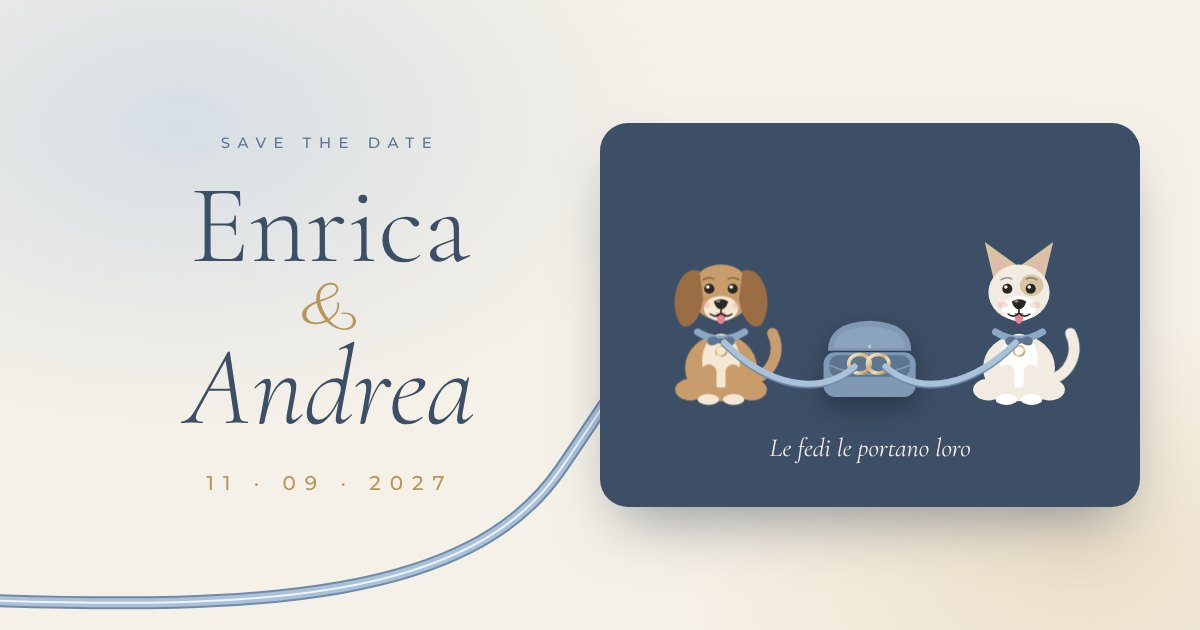
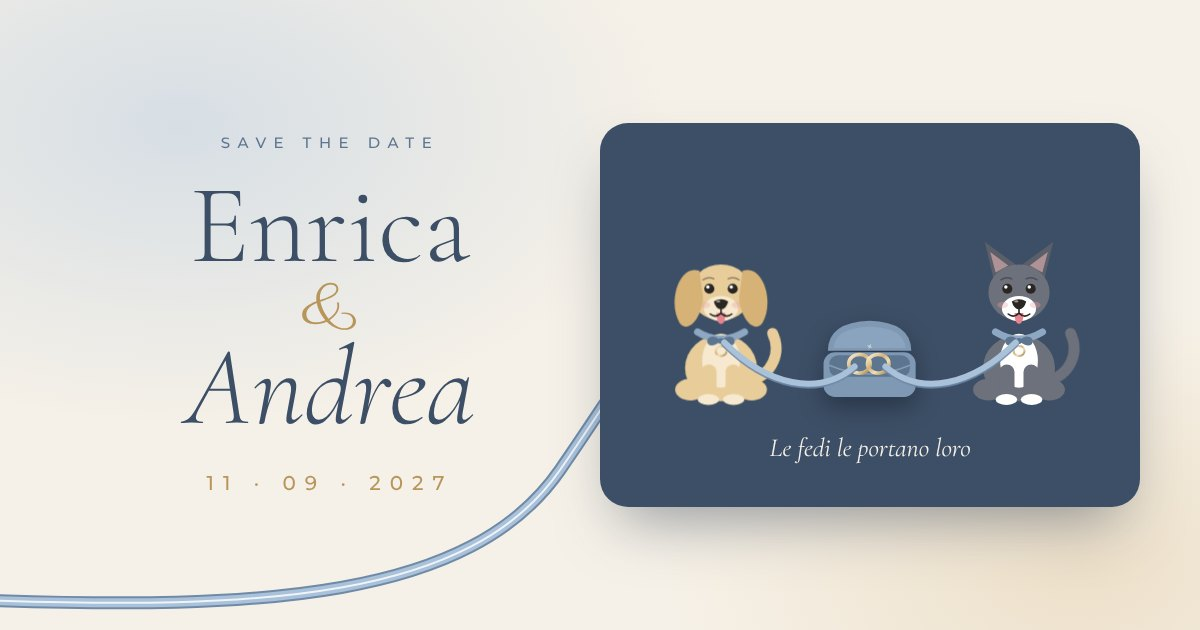
Foto vere, Giotto e Penelope
Foto della coppia ridimensionate e in ordine con le didascalie, ritratti
disegnati dei cani nelle schede (toccandoli compare la foto vera), colori
dei cani disegnati presi da Giotto (labrador) e Penelope (amstaff),
anteprima WhatsApp aggiornata. Tolti i segnaposto, i doppioni e la
schermata della palette dalla cartella delle foto.

Claude-Session: https://claude.ai/code/session_01RwR6BKojATNMNFkZ5XgZCV

Changed region(s): [[0.8017, 0.3921, 0.925, 0.6333], [0.555, 0.4222, 0.6783, 0.6333]]

diff --git a/assets/js/config.js b/assets/js/config.js
@@ -23,25 +23,30 @@ window.WEDDING = {
   },
 
   // I due cani portafedi.
-  // foto: se la lasciate vuota compare il disegno, colorato con i colori qui sotto.
-  // orecchie: 'giu' (a penzoloni) oppure 'su' (a punta)
+  // ritratto: disegno del cane (PNG con lo sfondo trasparente) per la scheda
+  // foto: foto vera, compare quando si tocca il cane nella scheda
+  // colori e orecchie ('giu' o 'su'): per il cane disegnato nel riporto, nel finale e nel messaggio segreto
   cani: [
     {
-      nome: 'Pepe', // ← nome del primo cane
-      foto: '',     // es. 'assets/img/cani/pepe.jpg'
+      nome: 'Giotto',
+      razza: 'Labrador',
+      ritratto: 'assets/img/cani/giotto-ritratto.png',
+      foto: 'assets/img/cani/giotto-foto.jpg',
       porta: 'la fede di Enrica',
-      segni: 'Orecchie da ascoltatore professionista',
-      talento: 'Riporta tutto. Anche quello che non doveva.',
-      colori: { pelo: '#c99c6b', muso: '#f4e7d3', orecchie: '#9a6d44', macchia: '' },
+      segni: 'Coda che non si ferma mai',
+      talento: 'Trovare qualcosa da mangiare ovunque, anche dove non c’è',
+      colori: { pelo: '#e8cd9a', muso: '#f6e9cf', orecchie: '#d6b276', macchia: '' },
       orecchie: 'giu',
     },
     {
-      nome: 'Luna', // ← nome del secondo cane
-      foto: '',     // es. 'assets/img/cani/luna.jpg'
+      nome: 'Penelope',
+      razza: 'Amstaff',
+      ritratto: 'assets/img/cani/penelope-ritratto.png',
+      foto: 'assets/img/cani/penelope-foto.jpg',
       porta: 'la fede di Andrea',
-      segni: 'Sguardo che ottiene qualsiasi cosa',
-      talento: 'Dormire sul divano nel posto più comodo',
-      colori: { pelo: '#f1ebe1', muso: '#ffffff', orecchie: '#d8c3a2', macchia: '#d8c3a2' },
+      segni: 'Bianca e grigia, con un cuore enorme',
+      talento: 'Chiedere coccole. E ottenerle, sempre',
+      colori: { pelo: '#6d717c', muso: '#ffffff', orecchie: '#5b5f6a', macchia: '' },
       orecchie: 'su',
     },
   ],
@@ -64,11 +69,18 @@ window.WEDDING = {
 
   // Foto appese al nastro (consigliato: 6–8 foto verticali, ~1000px di lato lungo)
   foto: [
-    { src: 'assets/img/photos/01.jpg', didascalia: 'Dove tutto è cominciato' },
-    { src: 'assets/img/photos/02.jpg', didascalia: 'Il primo viaggio' },
-    { src: 'assets/img/photos/03.jpg', didascalia: 'E poi arrivò Pepe' },
-    { src: 'assets/img/photos/04.jpg', didascalia: 'E poi anche Luna' },
-    { src: 'assets/img/photos/05.jpg', didascalia: 'Casa nostra' },
-    { src: 'assets/img/photos/06.jpg', didascalia: 'Il sì' },
+    { src: 'assets/img/photos/01-prima-foto-2012.jpg', didascalia: 'La nostra prima foto insieme, nel lontano 2012' },
+    { src: 'assets/img/photos/02-al-mare.jpg', didascalia: 'Baci salati' },
+    { src: 'assets/img/photos/03-al-lago.jpg', didascalia: 'Gite fuori porta' },
+    { src: 'assets/img/photos/04-stessa-fede.jpg', didascalia: 'La stessa fede (giallorossa)' },
+    { src: 'assets/img/photos/05-sottacqua.jpg', didascalia: 'Insieme, anche sott’acqua' },
+    { src: 'assets/img/photos/06-viaggio-piu-bello.jpg', didascalia: 'Il viaggio più bello fino ad ora' },
+    { src: 'assets/img/photos/07-vista-mare.jpg', didascalia: 'Sempre più in alto' },
+    { src: 'assets/img/photos/08-posto-del-cuore.jpg', didascalia: 'Il posto del cuore' },
+    { src: 'assets/img/photos/09-posto-del-cuore-tramonto.jpg', didascalia: 'Il posto del cuore, al tramonto' },
+    { src: 'assets/img/photos/10-tutti-e-quattro.jpg', didascalia: 'In viaggio, tutti e quattro' },
+    { src: 'assets/img/photos/11-in-tiro.jpg', didascalia: 'Già pronti per il grande giorno' },
+    { src: 'assets/img/photos/12-mani-e-zampe.jpg', didascalia: 'Mani e zampe' },
+    { src: 'assets/img/photos/13-la-proposta.jpg', didascalia: 'La proposta' },
   ],
 };

diff --git a/index.html b/index.html
@@ -177,10 +177,10 @@
       <header class="section-head">
         <p class="kicker">I portafedi</p>
         <h2>Testimoni a quattro zampe</h2>
-        <p class="section-sub">Il giorno del sì le fedi arriveranno con loro. Toccateli: rispondono.</p>
+        <p class="section-sub">Il giorno del sì le fedi arriveranno con loro. Toccateli: vi mostreranno come sono dal vero.</p>
       </header>
       <div class="pups__cards" id="pupCards" data-thread="0.5,-0.05; 0.5,0.5; 0.5,1.05"></div>
-      <p class="pups__hint">E occhio: <span data-bind="cane0">Pepe</span> e <span data-bind="cane1">Luna</span> hanno nascosto tre ossi nel sito. Trovateli!</p>
+      <p class="pups__hint">E occhio: <span data-bind="cane0">Giotto</span> e <span data-bind="cane1">Penelope</span> hanno nascosto tre ossi nel sito. Trovateli!</p>
     </section>
 
     <!-- ============ 3. APPESI A UN NASTRO ============ -->
@@ -376,7 +376,7 @@
       </div>
       <p class="finale__names"><span data-bind="lei">Enrica</span> <i>&amp;</i> <span data-bind="lui">Andrea</span></p>
       <p class="finale__date" data-bind="dataPunti">11 · 09 · 2027</p>
-      <p class="finale__small">Con <span data-bind="cane0">Pepe</span> e <span data-bind="cane1">Luna</span>, non vediamo l’ora di festeggiare con voi.</p>
+      <p class="finale__small">Con <span data-bind="cane0">Giotto</span> e <span data-bind="cane1">Penelope</span>, non vediamo l’ora di festeggiare con voi.</p>
       <button class="btn btn--ghost-light shake-btn js-shake" type="button"><span class="js-shake-label">Scuoti il telefono per lanciare i petali</span></button>
       <p class="finale__credit">Sito realizzato con amore da <a href="https://alessandropiedimonte.dev" target="_blank" rel="noopener">alessandropiedimonte.dev</a></p>
     </footer>

diff --git a/assets/js/main.js b/assets/js/main.js
@@ -347,7 +347,10 @@
     wrap.innerHTML = DOGS.map((c, i) => `
       <article class="pup pup--${i}" data-pup="${i}">
         <button class="pup__art" type="button" aria-label="Fai una carezza a ${esc(c.nome)}">
-          ${c.foto ? `<img class="pup__photo" src="${esc(c.foto)}" alt="${esc(c.nome)}" loading="lazy">` : dogSit(c)}
+          ${c.ritratto
+            ? `<img class="pup__portrait" src="${esc(c.ritratto)}" alt="${esc(c.nome)}" loading="lazy">`
+            : c.foto ? '' : dogSit(c)}
+          ${c.foto ? `<img class="pup__photo${c.ritratto ? ' pup__photo--peek' : ''}" src="${esc(c.foto)}" alt="${c.ritratto ? '' : esc(c.nome)}" loading="lazy">` : ''}
           <span class="pup__bubble" aria-hidden="true">Bau!</span>
         </button>
         <svg class="pup__rosette" viewBox="0 0 100 130" aria-hidden="true">
@@ -357,7 +360,7 @@
           <text x="50" y="58" text-anchor="middle" font-family="Cormorant Garamond, serif" font-size="26" font-style="italic" fill="${RIBBON_DEEP}">${i + 1}°</text>
         </svg>
         <div class="pup__body">
-          <p class="pup__role">Portafedi ufficiale</p>
+          <p class="pup__role">${c.razza ? `${esc(c.razza)} · ` : ''}Portafedi ufficiale</p>
           <h3 class="pup__name">${esc(c.nome)}</h3>
           <dl class="pup__facts">
             <div><dt>Porterà</dt><dd>${esc(c.porta || '')}</dd></div>
@@ -376,7 +379,7 @@
         const r = art.getBoundingClientRect();
         Petals.hearts(r.left + r.width / 2, r.top + r.height * .3, 7);
         clearTimeout(card._t);
-        card._t = setTimeout(() => card.classList.remove('is-happy'), 1600);
+        card._t = setTimeout(() => card.classList.remove('is-happy'), card.querySelector('.pup__photo--peek') ? 2600 : 1600);
       });
     });
   }

diff --git a/assets/css/style.css b/assets/css/style.css
@@ -574,6 +574,17 @@ body.is-open .eyebrow.reveal-hero { transition-delay: .9s; }
 .pup.is-happy .pup__art .dog { animation: hop .5s var(--ease-out); }
 @keyframes hop { 40% { transform: translateY(-14px); } }
 .pup__photo { position: absolute; inset: 0; width: 100%; height: 100%; object-fit: cover; border-radius: 50%; }
+/* il ritratto disegnato; toccandolo compare la foto vera */
+.pup__portrait {
+  position: absolute; left: 10%; top: 10%; width: 80%; height: 80%;
+  object-fit: contain;
+  filter: drop-shadow(0 8px 10px rgba(44,58,77,.2));
+  transition: transform .4s var(--ease-out), opacity .4s;
+}
+.pup__art:hover .pup__portrait { transform: translateY(-3px) rotate(-2deg); }
+.pup.is-happy .pup__portrait { animation: hop .5s var(--ease-out); }
+.pup__photo--peek { opacity: 0; transform: scale(.85); transition: opacity .45s, transform .6s var(--ease-out); }
+.pup.is-happy .pup__photo--peek { opacity: 1; transform: none; }
 .pup__bubble {
   position: absolute; right: -6%; top: 6%;
   padding: .3em .8em;

diff --git a/README.md b/README.md
@@ -29,25 +29,16 @@ Niente framework e niente build: HTML, CSS e JavaScript puri. Funziona anche con
 
 - `data` → data del matrimonio; `orario` → ora della cerimonia (vuoto = non mostrato)
 - `luogo` → nome, indirizzo, descrizione e link Maps della location
-- `cani` → **nome**, cosa porta, segni particolari, talento, **colori del pelo** e tipo di **orecchie** (`'giu'` o `'su'`) di ciascun cane. Con `foto` la scheda mostra la foto vera al posto del disegno
+- `cani` → Giotto (labrador) e Penelope (amstaff): nome, razza, cosa porta, segni particolari, talento. `ritratto` è il disegno nella scheda, `foto` la foto vera che compare quando li si tocca; `colori` e `orecchie` servono per i cani disegnati nel riporto, nel finale e nel messaggio segreto
 - `rsvp.entro` → data limite per rispondere (vuoto = "Fatecelo sapere appena potete")
 - `foto` → elenco foto e didascalie
 - `ossi` → messaggio segreto e premio per chi trova i tre ossi
 
 ## 📷 Dove mettere le foto
 
-**Foto della coppia** (la sezione *La nostra storia*):
+**Foto della coppia** (la sezione *La nostra storia*): stanno in **`assets/img/photos/`**, ridimensionate a 1000 px sul lato lungo. Per aggiungerne una, mettetela nella cartella (JPG, max ~300 KB) e aggiungete una riga all'elenco `foto` in `config.js`, es. `{ src: 'assets/img/photos/14-nuova.jpg', didascalia: 'La didascalia' }`. L'ordine dell'elenco è l'ordine sul nastro.
 
-1. Mettete le foto in **`assets/img/photos/`** (JPG, circa 1000 px sul lato lungo, max ~300 KB ciascuna; vengono ritagliate quasi quadrate, come le polaroid).
-2. Il modo più semplice è **sostituire** i file che ci sono già (`01.jpg` … `06.jpg`, ora sono segnaposto) mantenendo gli stessi nomi.
-3. Oppure usate nomi nuovi e aggiornate l'elenco `foto` in `config.js`, ad esempio `{ src: 'assets/img/photos/mare.jpg', didascalia: 'Quella volta al mare' }`. Potete metterne quante volete (consigliato 6–8).
-
-**Foto dei cani** (facoltative):
-
-1. Mettetele in **`assets/img/cani/`** (quadrate, con il muso al centro, ~600 px).
-2. In `config.js`, nella scheda del cane, scrivete il percorso in `foto`, es. `foto: 'assets/img/cani/pepe.jpg'`.
-
-Se `foto` resta vuota compare il cane disegnato: cambiate `colori` (pelo, muso, orecchie, macchia sull'occhio) per farlo somigliare a quello vero. Il disegno resta comunque nel gioco del riporto, nel finale e nel messaggio segreto.
+**Cani**: in **`assets/img/cani/`** ci sono i ritratti disegnati (`*-ritratto.png`, con lo sfondo trasparente) e le foto vere ritagliate quadrate (`*-foto.jpg`).
 
 ### Anteprima su WhatsApp
 `assets/img/og-image.jpg` è l'immagine che appare quando si condivide il link. È collegata tramite l'URL completo in `index.html` (`og:image`). Se cambiate indirizzo del sito, aggiornate anche quello.
